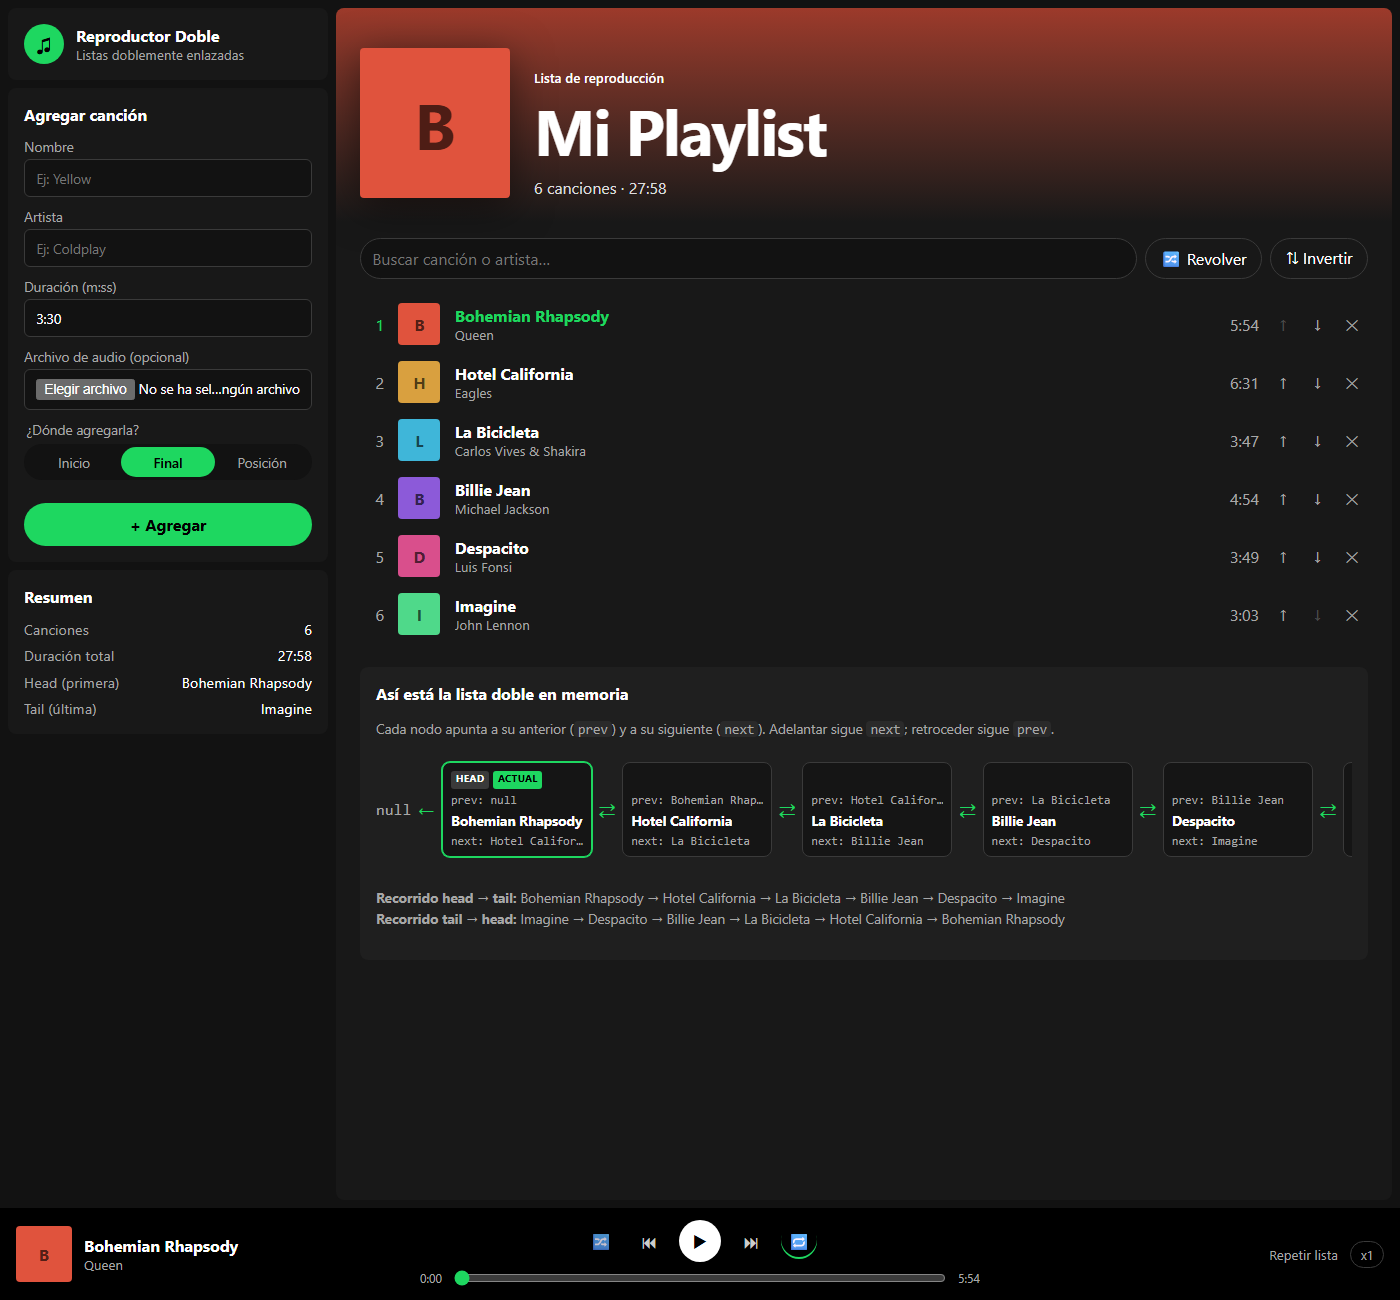
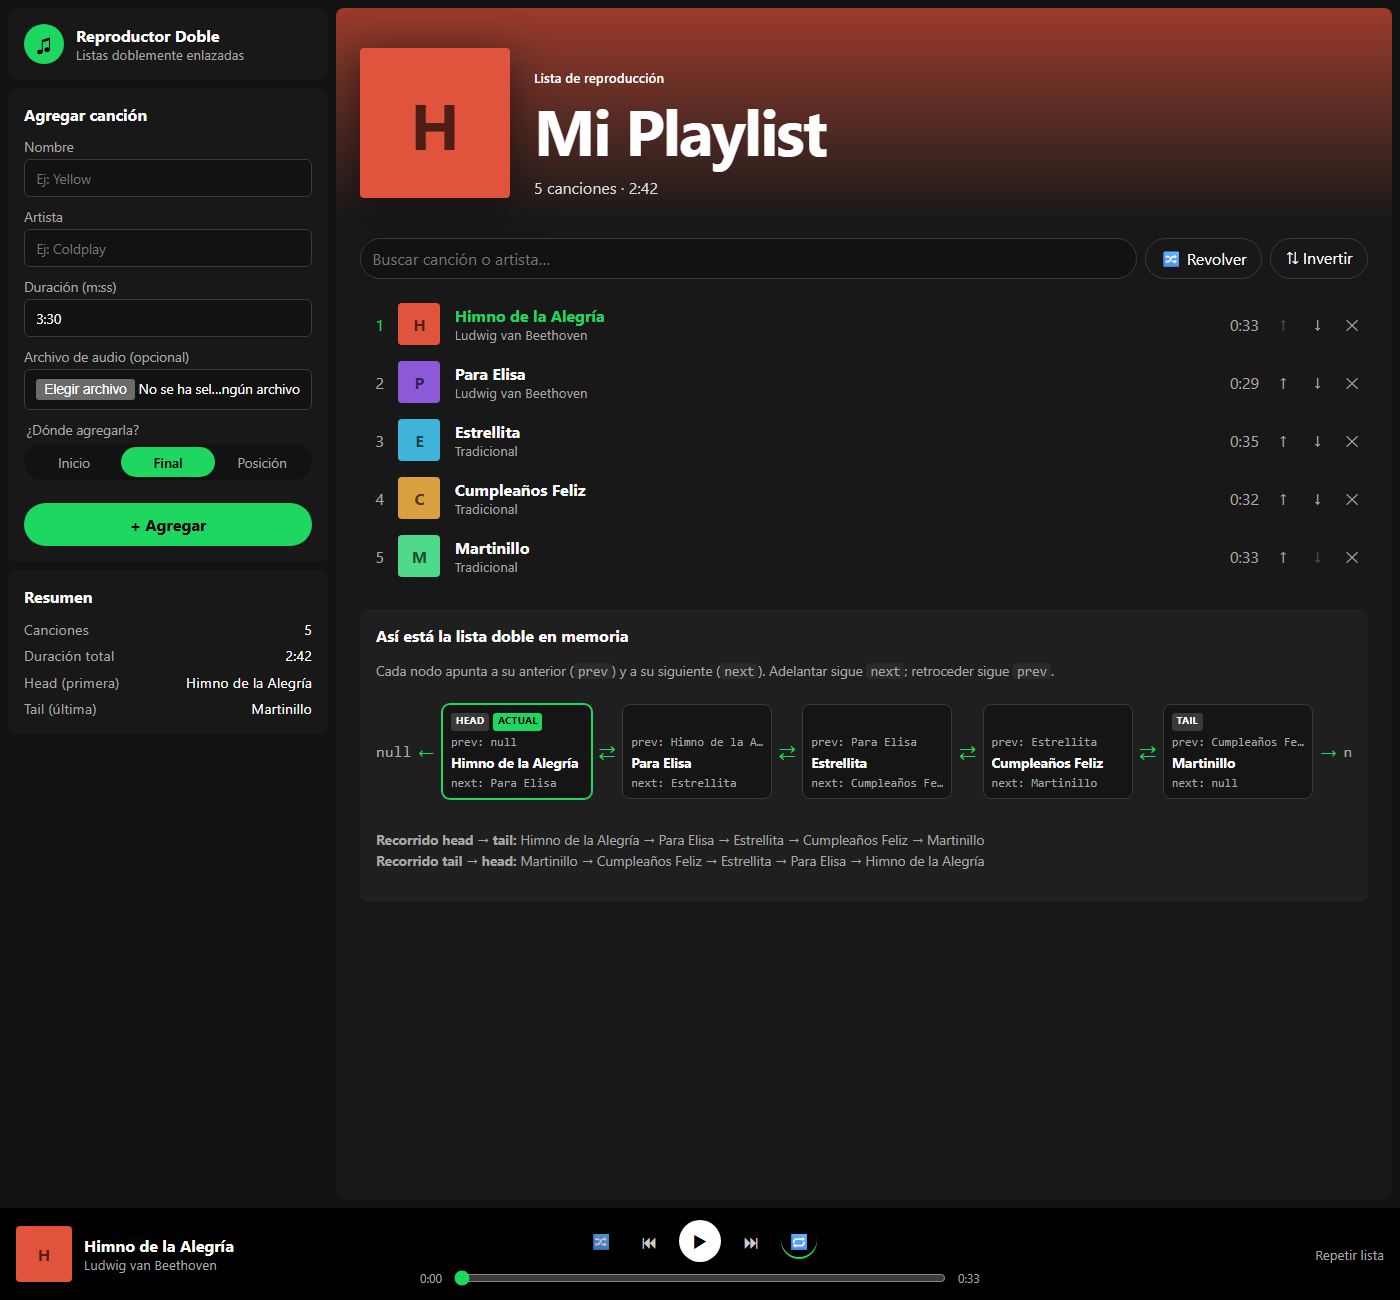
feat: canciones de ejemplo con audio real generado (melodías de dominio público)

diff --git a/src/data/sampleSongs.ts b/src/data/sampleSongs.ts
@@ -1,10 +1,52 @@
 import type { Song } from '../lib/Playlist'
+import { melodyToAudio, type Melody } from '../lib/synth'
 
-export const sampleSongs: Song[] = [
-  { id: 's1', title: 'Bohemian Rhapsody', artist: 'Queen', duration: 354, color: '#e0533d' },
-  { id: 's2', title: 'Hotel California', artist: 'Eagles', duration: 391, color: '#d9a03f' },
-  { id: 's3', title: 'La Bicicleta', artist: 'Carlos Vives & Shakira', duration: 227, color: '#3fb6d9' },
-  { id: 's4', title: 'Billie Jean', artist: 'Michael Jackson', duration: 294, color: '#8c5ad9' },
-  { id: 's5', title: 'Despacito', artist: 'Luis Fonsi', duration: 229, color: '#d94f8c' },
-  { id: 's6', title: 'Imagine', artist: 'John Lennon', duration: 183, color: '#4fd98a' },
+// Melodías de dominio público; la app las convierte en audio real al iniciar.
+const ODE_TO_JOY: Melody = [
+  ['E4', 1], ['E4', 1], ['F4', 1], ['G4', 1], ['G4', 1], ['F4', 1], ['E4', 1], ['D4', 1],
+  ['C4', 1], ['C4', 1], ['D4', 1], ['E4', 1], ['E4', 1.5], ['D4', 0.5], ['D4', 2],
+  ['E4', 1], ['E4', 1], ['F4', 1], ['G4', 1], ['G4', 1], ['F4', 1], ['E4', 1], ['D4', 1],
+  ['C4', 1], ['C4', 1], ['D4', 1], ['E4', 1], ['D4', 1.5], ['C4', 0.5], ['C4', 2],
 ]
+
+const FUR_ELISE: Melody = [
+  ['E5', 0.5], ['D#5', 0.5], ['E5', 0.5], ['D#5', 0.5], ['E5', 0.5], ['B4', 0.5], ['D5', 0.5], ['C5', 0.5],
+  ['A4', 1.5], ['C4', 0.5], ['E4', 0.5], ['A4', 0.5], ['B4', 1.5], ['E4', 0.5], ['G#4', 0.5], ['B4', 0.5],
+  ['C5', 1.5], ['E4', 0.5], ['E5', 0.5], ['D#5', 0.5], ['E5', 0.5], ['D#5', 0.5], ['E5', 0.5], ['B4', 0.5],
+  ['D5', 0.5], ['C5', 0.5], ['A4', 1.5], ['C4', 0.5], ['E4', 0.5], ['A4', 0.5], ['B4', 1.5], ['E4', 0.5],
+  ['C5', 0.5], ['B4', 0.5], ['A4', 2],
+]
+
+const TWINKLE: Melody = [
+  ['C4', 1], ['C4', 1], ['G4', 1], ['G4', 1], ['A4', 1], ['A4', 1], ['G4', 2],
+  ['F4', 1], ['F4', 1], ['E4', 1], ['E4', 1], ['D4', 1], ['D4', 1], ['C4', 2],
+  ['G4', 1], ['G4', 1], ['F4', 1], ['F4', 1], ['E4', 1], ['E4', 1], ['D4', 2],
+  ['G4', 1], ['G4', 1], ['F4', 1], ['F4', 1], ['E4', 1], ['E4', 1], ['D4', 2],
+]
+
+const HAPPY_BIRTHDAY: Melody = [
+  ['G4', 0.75], ['G4', 0.25], ['A4', 1], ['G4', 1], ['C5', 1], ['B4', 2],
+  ['G4', 0.75], ['G4', 0.25], ['A4', 1], ['G4', 1], ['D5', 1], ['C5', 2],
+  ['G4', 0.75], ['G4', 0.25], ['G5', 1], ['E5', 1], ['C5', 1], ['B4', 1], ['A4', 2],
+  ['F5', 0.75], ['F5', 0.25], ['E5', 1], ['C5', 1], ['D5', 1], ['C5', 2], ['R', 1],
+]
+
+const FRERE_JACQUES: Melody = [
+  ['C4', 1], ['D4', 1], ['E4', 1], ['C4', 1], ['C4', 1], ['D4', 1], ['E4', 1], ['C4', 1],
+  ['E4', 1], ['F4', 1], ['G4', 2], ['E4', 1], ['F4', 1], ['G4', 2],
+  ['G4', 0.5], ['A4', 0.5], ['G4', 0.5], ['F4', 0.5], ['E4', 1], ['C4', 1],
+  ['G4', 0.5], ['A4', 0.5], ['G4', 0.5], ['F4', 0.5], ['E4', 1], ['C4', 1],
+  ['C4', 1], ['G3', 1], ['C4', 2], ['C4', 1], ['G3', 1], ['C4', 2],
+]
+
+const SONGS: { id: string; title: string; artist: string; color: string; melody: Melody; bpm: number; repeats: number }[] = [
+  { id: 's1', title: 'Himno de la Alegría', artist: 'Ludwig van Beethoven', color: '#e0533d', melody: ODE_TO_JOY, bpm: 120, repeats: 2 },
+  { id: 's2', title: 'Para Elisa', artist: 'Ludwig van Beethoven', color: '#8c5ad9', melody: FUR_ELISE, bpm: 100, repeats: 2 },
+  { id: 's3', title: 'Estrellita', artist: 'Tradicional', color: '#3fb6d9', melody: TWINKLE, bpm: 110, repeats: 2 },
+  { id: 's4', title: 'Cumpleaños Feliz', artist: 'Tradicional', color: '#d9a03f', melody: HAPPY_BIRTHDAY, bpm: 100, repeats: 2 },
+  { id: 's5', title: 'Martinillo', artist: 'Tradicional', color: '#4fd98a', melody: FRERE_JACQUES, bpm: 120, repeats: 2 },
+]
+
+export function createSampleSongs(): Song[] {
+  return SONGS.map(({ melody, bpm, repeats, ...song }) => ({ ...song, ...melodyToAudio(melody, bpm, repeats) }))
+}

diff --git a/src/lib/synth.ts b/src/lib/synth.ts
@@ -1,0 +1,79 @@
+/**
+ * Genera audio real (un archivo WAV en memoria) a partir de una melodía.
+ * Así las canciones de ejemplo suenan sin incluir archivos con derechos de autor.
+ */
+
+/** [nota, duración en tiempos]. Nota en notación inglesa: 'C4', 'D#5'; 'R' = silencio. */
+export type Melody = [note: string, beats: number][]
+
+const SAMPLE_RATE = 22050
+const SEMITONES: Record<string, number> = { C: -9, D: -7, E: -5, F: -4, G: -2, A: 0, B: 2 }
+
+export function noteFrequency(note: string): number {
+  const match = /^([A-G])(#|b)?(\d)$/.exec(note)
+  if (!match) throw new Error(`Nota inválida: ${note}`)
+  const [, letter, accidental, octave] = match
+  const offset = SEMITONES[letter] + (accidental === '#' ? 1 : accidental === 'b' ? -1 : 0)
+  return 440 * 2 ** ((Number(octave) - 4) + offset / 12)
+}
+
+/** Muestras PCM (-1..1) de la melodía repetida `repeats` veces. */
+export function renderMelody(melody: Melody, bpm: number, repeats = 1): Float32Array {
+  const beat = 60 / bpm
+  const totalBeats = melody.reduce((sum, [, beats]) => sum + beats, 0) * repeats
+  const samples = new Float32Array(Math.ceil(totalBeats * beat * SAMPLE_RATE) + SAMPLE_RATE / 2)
+  let cursor = 0
+  for (let r = 0; r < repeats; r++) {
+    for (const [note, beats] of melody) {
+      const length = Math.round(beats * beat * SAMPLE_RATE)
+      if (note !== 'R') {
+        const frequency = noteFrequency(note)
+        for (let i = 0; i < length; i++) {
+          const t = i / SAMPLE_RATE
+          // Envolvente tipo piano: ataque corto y caída exponencial.
+          const envelope = Math.min(1, i / 200) * Math.exp(-3 * t) * Math.min(1, (length - i) / 400)
+          const wave =
+            Math.sin(2 * Math.PI * frequency * t) +
+            0.5 * Math.sin(4 * Math.PI * frequency * t) +
+            0.25 * Math.sin(6 * Math.PI * frequency * t)
+          samples[cursor + i] += 0.3 * envelope * wave
+        }
+      }
+      cursor += length
+    }
+  }
+  return samples
+}
+
+export function encodeWav(samples: Float32Array, sampleRate = SAMPLE_RATE): ArrayBuffer {
+  const buffer = new ArrayBuffer(44 + samples.length * 2)
+  const view = new DataView(buffer)
+  const write = (offset: number, text: string) => {
+    for (let i = 0; i < text.length; i++) view.setUint8(offset + i, text.charCodeAt(i))
+  }
+  write(0, 'RIFF')
+  view.setUint32(4, 36 + samples.length * 2, true)
+  write(8, 'WAVE')
+  write(12, 'fmt ')
+  view.setUint32(16, 16, true)
+  view.setUint16(20, 1, true) // PCM
+  view.setUint16(22, 1, true) // mono
+  view.setUint32(24, sampleRate, true)
+  view.setUint32(28, sampleRate * 2, true)
+  view.setUint16(32, 2, true)
+  view.setUint16(34, 16, true)
+  write(36, 'data')
+  view.setUint32(40, samples.length * 2, true)
+  for (let i = 0; i < samples.length; i++) {
+    const s = Math.max(-1, Math.min(1, samples[i]))
+    view.setInt16(44 + i * 2, s * 0x7fff, true)
+  }
+  return buffer
+}
+
+/** URL reproducible por <audio> y su duración en segundos. */
+export function melodyToAudio(melody: Melody, bpm: number, repeats: number): { src: string; duration: number } {
+  const samples = renderMelody(melody, bpm, repeats)
+  const blob = new Blob([encodeWav(samples)], { type: 'audio/wav' })
+  return { src: URL.createObjectURL(blob), duration: Math.round(samples.length / SAMPLE_RATE) }
+}

diff --git a/src/App.tsx b/src/App.tsx
@@ -1,5 +1,5 @@
 import { Fragment, useEffect, useReducer, useRef, useState, type CSSProperties, type FormEvent } from 'react'
-import { sampleSongs } from './data/sampleSongs'
+import { createSampleSongs } from './data/sampleSongs'
 import { Playlist, type Position, type RepeatMode, type Song } from './lib/Playlist'
 import { formatTime, parseTime } from './lib/time'
 
@@ -16,7 +16,7 @@ const newId = () => `u${Date.now().toString(36)}${idCounter++}`
 
 function createPlaylist(): Playlist {
   const playlist = new Playlist()
-  for (const song of sampleSongs) playlist.add({ ...song }, 'end')
+  for (const song of createSampleSongs()) playlist.add(song, 'end')
   return playlist
 }
 
@@ -362,7 +362,7 @@ export default function App() {
                       <strong>{song.title}</strong>
                       <small>
                         {song.artist}
-                        {song.src && <em className="badge">audio real</em>}
+                        {song.id.startsWith('u') && song.src && <em className="badge">tu archivo</em>}
                       </small>
                     </span>
                     <span className="time">{formatTime(song.duration)}</span>

diff --git a/src/lib/synth.test.ts b/src/lib/synth.test.ts
@@ -1,0 +1,20 @@
+import { describe, expect, it } from 'vitest'
+import { encodeWav, noteFrequency, renderMelody } from './synth'
+
+describe('synth', () => {
+  it('calcula la frecuencia de las notas', () => {
+    expect(noteFrequency('A4')).toBeCloseTo(440)
+    expect(noteFrequency('A5')).toBeCloseTo(880)
+    expect(noteFrequency('C4')).toBeCloseTo(261.63, 1)
+    expect(noteFrequency('D#5')).toBeCloseTo(622.25, 1)
+  })
+
+  it('genera un WAV con la duración de la melodía', () => {
+    // 4 tiempos a 120 bpm = 2 s, más medio segundo de cola.
+    const samples = renderMelody([['C4', 2], ['R', 1], ['G4', 1]], 120)
+    expect(samples.length).toBeCloseTo(22050 * 2.5, -2)
+    const wav = encodeWav(samples)
+    expect(new TextDecoder().decode(wav.slice(0, 4))).toBe('RIFF')
+    expect(wav.byteLength).toBe(44 + samples.length * 2)
+  })
+})

diff --git a/README.md b/README.md
@@ -20,7 +20,7 @@ con frontend en React donde el usuario agrega, elimina, adelanta y retrocede can
 ### Funcionalidades adicionales
 
 - **Reproducción**: play/pausa, barra de progreso y paso automático a la siguiente canción al terminar.
-- **Audio real**: puedes subir un archivo de audio (mp3, wav…) y se reproduce de verdad; las canciones de ejemplo se simulan (con velocidad x1 o x10 para probar rápido).
+- **Audio real**: las canciones de ejemplo son melodías de dominio público (Himno de la Alegría, Para Elisa, Estrellita…) que la app genera como audio WAV al iniciar (`src/lib/synth.ts`), así que suenan sin incluir música con derechos de autor. También puedes subir tu propio archivo de audio (mp3, wav…).
 - **Repetir**: sin repetir, repetir lista (la lista se recorre de forma circular: del final vuelve al inicio y viceversa) o repetir canción.
 - **Mover** canciones arriba/abajo reenlazando el mismo nodo.
 - **Revolver** (Fisher-Yates reenlazando los nodos) e **invertir** la lista intercambiando `prev` y `next`.
